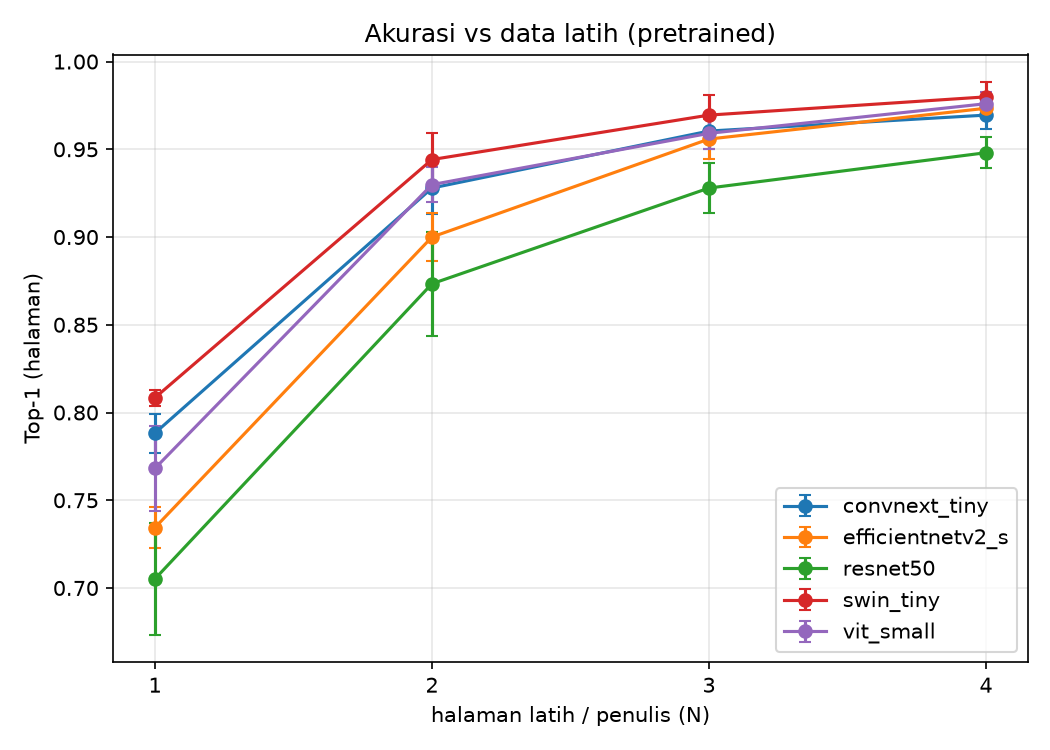
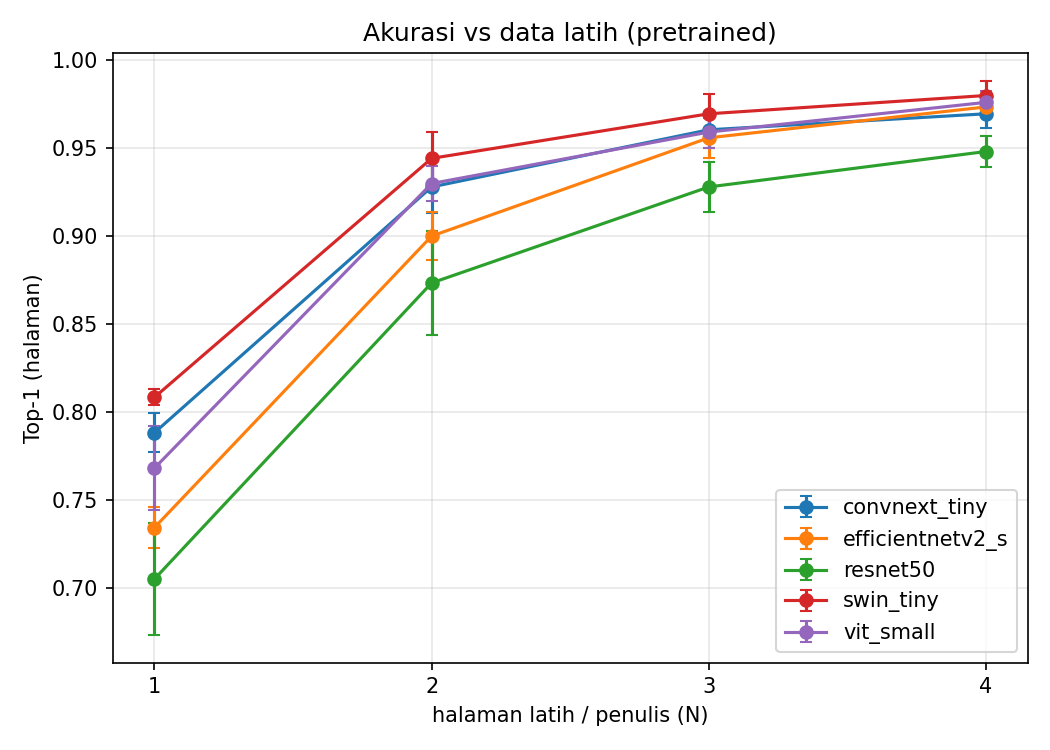
docs: write the eight-chapter experiment documentation
dokumentasi/ held only the two generated result tables, both numbered 08, with
no prose explaining what was run or why. Adds six hand-written chapters plus an
index, and renumbers the generated pair to fit the sequence: scratch 05,
pretrained 06.

make_report.py picks the number from the mode it finds, so the rename survives
the next regeneration instead of leaving stale 08-* files beside the new ones.

Every figure in the prose was checked against the CSVs by script: 59 numeric
claims, all matching. Study 2 finished while this was being written, so
chapter 07 reports the full 25 runs rather than the partial 22.

The chapters record what the numbers do not: that scratch collapse is 36/100
and must never be averaged with healthy runs, that ResNet-50 never collapses
yet lands below an architecture that does, that FT1 changes train geometry and
eval protocol together so its +14.2 points cannot yet be attributed to either,
and that best_val_acc on L1 is measured on lines from the training page.

diff --git a/tests/test_report_modes.py b/tests/test_report_modes.py
@@ -75,7 +75,8 @@ def test_ringkasan_kolaps_tidak_mengarang_saat_semua_sehat():
 # laporan hanya memuat mode yang ada di CSV
 # --------------------------------------------------------------------------
 
-def _jalankan(tmp_path, monkeypatch, df, tag):
+def _tulis(tmp_path, monkeypatch, df, tag):
+    """Jalankan make_report dan kembalikan berkas markdown yang dihasilkan."""
     monkeypatch.chdir(tmp_path)
     (tmp_path / "results").mkdir()
     csv = tmp_path / "results" / f"results-{tag}.csv"
@@ -83,7 +84,27 @@ def _jalankan(tmp_path, monkeypatch, df, tag):
     monkeypatch.setattr(sys, "argv",
                         ["make_report.py", "--results", str(csv), "--date", tag])
     mr.main()
-    return (tmp_path / "dokumentasi" / f"08-hasil-eksperimen-{tag}.md").read_text()
+    md = sorted((tmp_path / "dokumentasi").glob("*.md"))
+    assert len(md) == 1, [p.name for p in md]
+    return md[0]
+
+
+def _jalankan(tmp_path, monkeypatch, df, tag):
+    return _tulis(tmp_path, monkeypatch, df, tag).read_text()
+
+
+# --------------------------------------------------------------------------
+# penomoran berkas mengikuti urutan bab, bukan satu nomor untuk semua
+# --------------------------------------------------------------------------
+
+def test_laporan_scratch_bernomor_05(tmp_path, monkeypatch):
+    p = _tulis(tmp_path, monkeypatch, _df("scratch", kolaps=[("swin_tiny", 4)]), "scratch")
+    assert p.name == "05-hasil-eksperimen-scratch.md"
+
+
+def test_laporan_pretrained_bernomor_06(tmp_path, monkeypatch):
+    p = _tulis(tmp_path, monkeypatch, _df("pretrained"), "pretrained")
+    assert p.name == "06-hasil-eksperimen-pretrained.md"
 
 
 def test_csv_scratch_tidak_menghasilkan_bagian_pretrained(tmp_path, monkeypatch):

diff --git a/scripts/make_report.py b/scripts/make_report.py
@@ -75,12 +75,22 @@ def bagian_scratch(df, fig_dir, acc_png):
 # kosong, bukan error.
 BAGIAN = {"pretrained": bagian_pretrained, "scratch": bagian_scratch}
 
+# Nomor bab di dokumentasi/. Scratch (05) mendahului pretrained (06) karena
+# bab metode memperkenalkan trainability lebih dulu, baru transfer learning.
+# CSV yang memuat kedua mode ditulis sebagai lanjutan bab pretrained.
+NOMOR = {"scratch": "05", "pretrained": "06"}
+NOMOR_GABUNGAN = "06"
+
+
+def nama_laporan(ada, suffix) -> Path:
+    nomor = NOMOR[ada[0]] if len(ada) == 1 else NOMOR_GABUNGAN
+    return Path(f"dokumentasi/{nomor}-hasil-eksperimen{suffix}.md")
+
 
 def main():
     args = parse_args()
     suffix = date_suffix(args.date)
     src_csv = resolve_results_csv(args.results, suffix)
-    out_md = Path(args.out) if args.out else Path(f"dokumentasi/08-hasil-eksperimen{suffix}.md")
 
     df = pd.read_csv(src_csv)
     ada = [m for m in BAGIAN if m in set(df["mode"].astype(str))]
@@ -89,6 +99,7 @@ def main():
             f"{src_csv}: tidak ada mode yang dikenali di kolom `mode` "
             f"(ditemukan: {sorted(set(df['mode'].astype(str)))}; "
             f"diharapkan salah satu dari {sorted(BAGIAN)})")
+    out_md = Path(args.out) if args.out else nama_laporan(ada, suffix)
 
     fig = Path("results/figures"); fig.mkdir(parents=True, exist_ok=True)
     parts = ["# Hasil Eksperimen — Perbandingan Arsitektur Writer-ID CVL\n",
